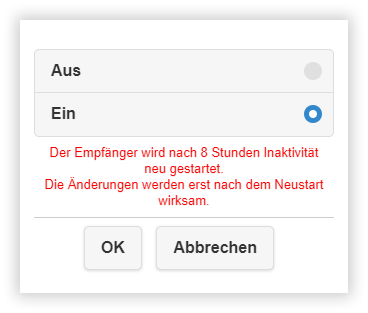
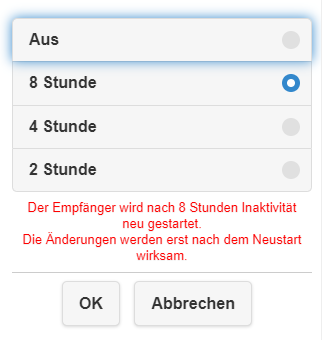
Recommended settings 1.12170.19

diff --git a/docs/pro-stick-d10/adv.settings.md b/docs/pro-stick-d10/adv.settings.md
@@ -182,11 +182,11 @@ Um ältere Endgeräte bzw. nicht 5 GHz fähige Geräte zu unterstützen nutzen S
 
 #### Zeitgesteuerter Neustart {#timedrestart}
 
-Um die Leistung des EZCast Pro Gerätes zu optimieren, insbesondere bei Geräten, die dauerhaft im Betrieb sind, schalten Sie die Option `Zeitgesteurter Neustart` **EIN**. Der Empfänger startet sich automatisch neu, wenn die folgenden Bedingungen zutreffen:
+Um die Leistung des EZCast Pro Gerätes zu optimieren, insbesondere bei Geräten, die dauerhaft im Betrieb sind, aktivieren Sie die Funktion `Zeitgesteurter Neustart`. Der Empfänger startet sich automatisch neu, wenn die folgenden Bedingungen zutreffen:
 
-* Der EZCast Pro Stick II war 8 Stunden nicht im Betrieb. 
-* Kein Nutzer ist seit mind. 8 Stunden verbunden.
-* Die Web-Oberfläche der Einstellungen wurde 8 Stunden nicht verwendet.
+* Die EZCast Pro Box II war 2/4/8 Stunden nicht im Betrieb. 
+* Kein Nutzer ist seit mind. 2/4/8 Stunden verbunden.
+* Die Web-Oberfläche der Einstellungen wurde 2/4/8 Stunden nicht verwendet.
 
 ![Zeitgesteuerter Neustart einschalten](/assets/img/timed.restart.png)
 

diff --git a/docs/pro-box-b10/adv.settings.md b/docs/pro-box-b10/adv.settings.md
@@ -181,11 +181,11 @@ Um ältere Endgeräte bzw. nicht 5 GHz fähige Geräte zu unterstützen nutzen S
 
 #### Zeitgesteuerter Neustart {#timedrestart}
 
-Um die Leistung des EZCast Pro Gerätes zu optimieren, insbesondere bei Geräten, die dauerhaft im Betrieb sind, schalten Sie die Option `Zeitgesteurter Neustart` **EIN**. Der Empfänger startet sich automatisch neu, wenn die folgenden Bedingungen zutreffen:
+Um die Leistung des EZCast Pro Gerätes zu optimieren, insbesondere bei Geräten, die dauerhaft im Betrieb sind, aktivieren Sie die Funktion `Zeitgesteurter Neustart`. Der Empfänger startet sich automatisch neu, wenn die folgenden Bedingungen zutreffen:
 
-* Die EZCast Pro Box II war 8 Stunden nicht im Betrieb. 
-* Kein Nutzer ist seit mind. 8 Stunden verbunden.
-* Die Web-Oberfläche der Einstellungen wurde 8 Stunden nicht verwendet.
+* Die EZCast Pro Box II war 2/4/8 Stunden nicht im Betrieb. 
+* Kein Nutzer ist seit mind. 2/4/8 Stunden verbunden.
+* Die Web-Oberfläche der Einstellungen wurde 2/4/8 Stunden nicht verwendet.
 
 ![Zeitgesteuerter Neustart einschalten](/assets/img/timed.restart.png)
 

diff --git a/docs/pro-stick-d10/reset.md b/docs/pro-stick-d10/reset.md
@@ -67,7 +67,7 @@ Wenn Ihnen die Zugangsdaten für die [Erweiterte Einstellungen](adv.settings.md)
 
 Nach dem Zurücksetzen werden Sie bei der ersten Anmeldung auf der Funktion [Erweiterte Einstellungen](adv.settings.md) aufgefordert, das Admin-Kennwort zu ändern. Standardmäßig lautet es `000000`. Wir empfehlen, dass Sie anschließend die folgenden Einstellungen überprüfen:
 
-Firmware-Version: [1.12170.16](whatsnew.md#ezcast-pro-stick-ii-firmware-11217016)
+Firmware-Version: [1.12170.19](whatsnew.md#ezcast-pro-stick-ii-firmware-11217016)
 
 **Gerätemanagement**
 
@@ -75,7 +75,8 @@ Firmware-Version: [1.12170.16](whatsnew.md#ezcast-pro-stick-ii-firmware-11217016
 * [Android Audioübertragung](adv.settings.md#Android-Audio-Streaming): `EIN`
 * [AirView](adv.settings.md#AirView): `EIN`
 * [Castcode](adv.settings.md#Castcode): `Zufällig`
-* [Zeitgesteuerter Neustart](adv.settings.md#timedrestart): `EIN`
+* [Miracast](adv.settings.md#Miracast): `Geteilter Bildschirm unterstützt`
+* [Zeitgesteuerter Neustart](adv.settings.md#timedrestart): `8 Stunden`
 
 **Netzwerkmanagement**
 

diff --git a/docs/pro-box-b10/reset.md b/docs/pro-box-b10/reset.md
@@ -66,7 +66,7 @@ Wenn Ihnen die Zugangsdaten für die [Erweiterte Einstellungen](adv.settings.md)
 
 Nach dem Zurücksetzen werden Sie bei der ersten Anmeldung auf der Funktion [Erweiterte Einstellungen](adv.settings.md) aufgefordert, das Admin-Kennwort zu ändern. Standardmäßig lautet es `000000`. Wir empfehlen, dass Sie anschließend die folgenden Einstellungen überprüfen:
 
-Firmware-Version: [1.12170.16](whatsnew.md#ezcast-pro-box-ii-firmware-11217016)
+Firmware-Version: [1.12170.19](whatsnew.md#ezcast-pro-box-ii-firmware-11217016)
 
 **Gerätemanagement**
 
@@ -74,7 +74,8 @@ Firmware-Version: [1.12170.16](whatsnew.md#ezcast-pro-box-ii-firmware-11217016)
 * [Android Audioübertragung](adv.settings.md#Android-Audio-Streaming): `EIN`
 * [AirView](adv.settings.md#AirView): `EIN`
 * [Castcode](adv.settings.md#Castcode): `Zufällig`
-* [Zeitgesteuerter Neustart](adv.settings.md#timedrestart): `EIN`
+* [Miracast](adv.settings.md#Miracast): `Geteilter Bildschirm unterstützt`
+* [Zeitgesteuerter Neustart](adv.settings.md#timedrestart): `8 Stunden`
 
 **Netzwerkmanagement**
 
